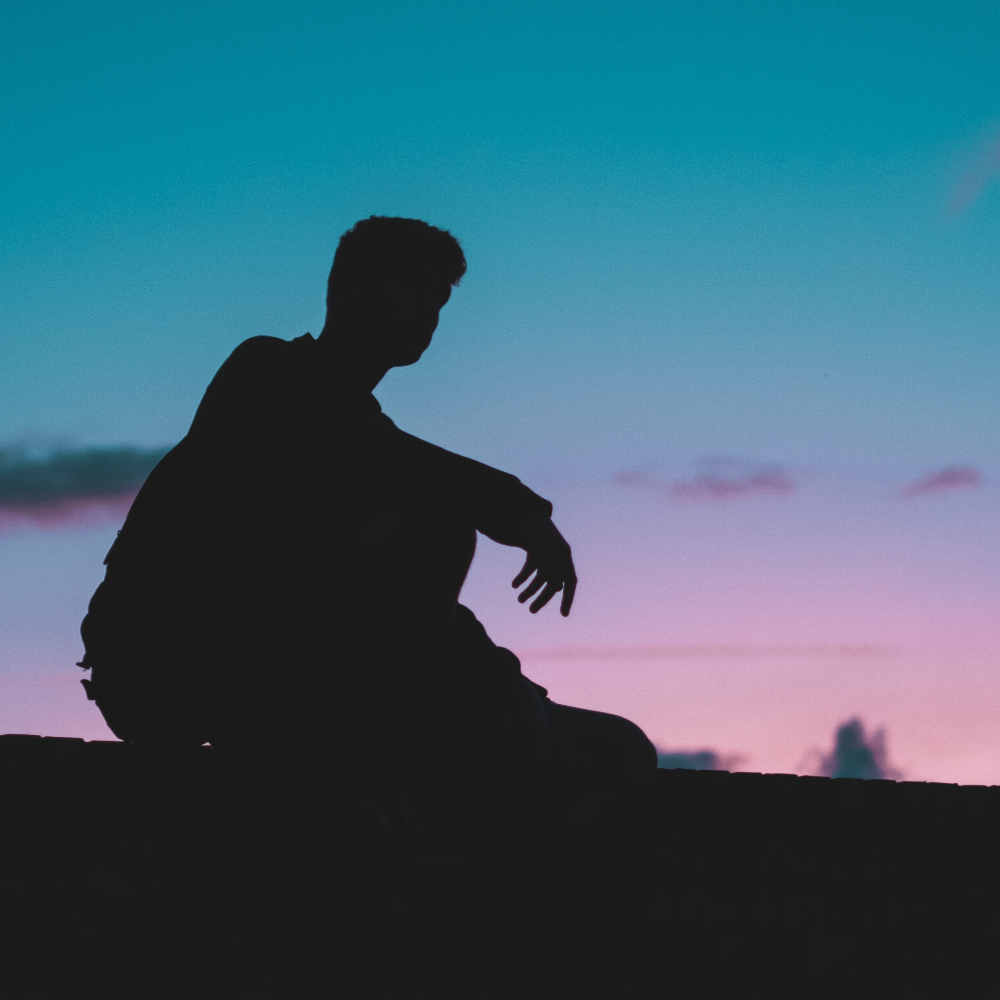
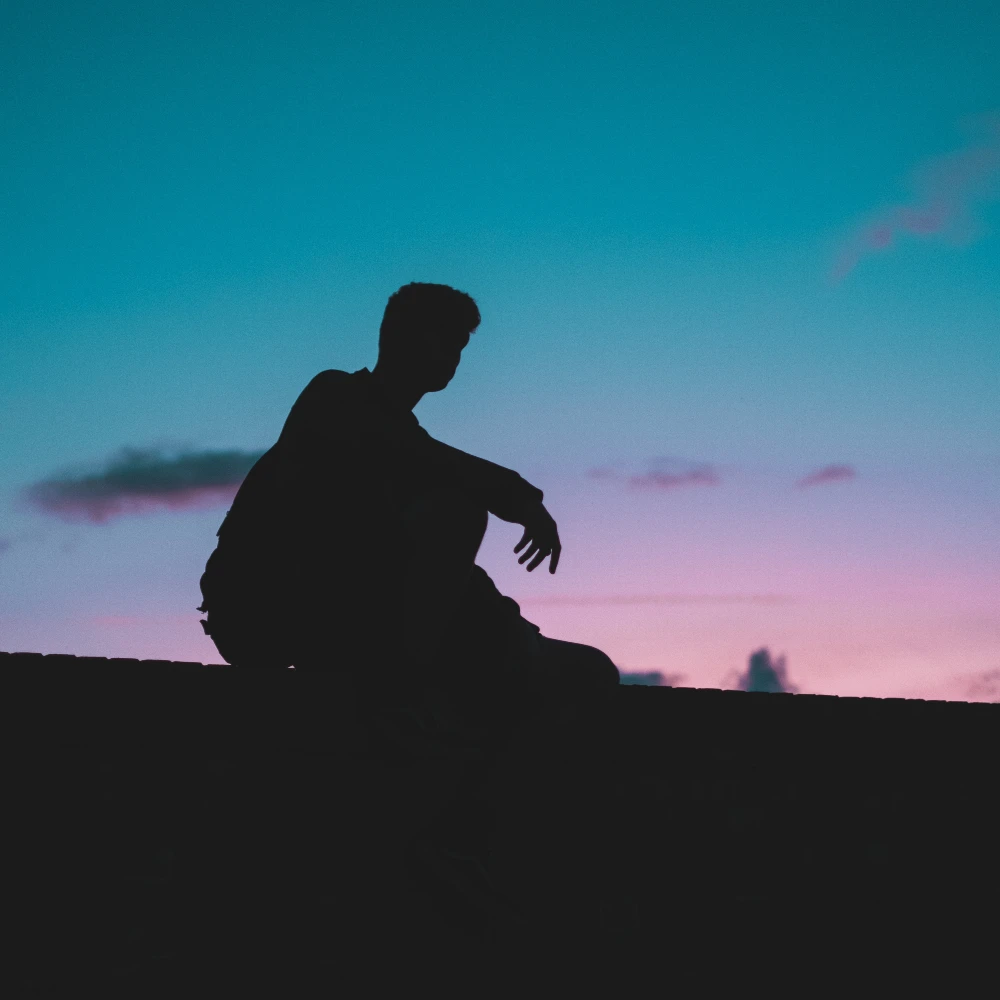
nov 15

diff --git a/resume.html b/resume.html
@@ -84,9 +84,9 @@
             </legend>
 
             <ul class="none xt">
-                <li class="accent emp xt">***** Studios&nbsp; • &nbsp;Atlanta, GA&nbsp; • &nbsp;May 2013 — Dec 2018</li>
-                <li class="accent emp under xt">Founder of independent music studio with a strong online presence,
-                    focusing on freelance audio production and engineering.</li>
+                <li class="accent xt">***** Studios&nbsp; • &nbsp;Atlanta, GA&nbsp; • &nbsp;May 2013 - Dec 2018</li>
+                <li class="accent under xt">Founder of independent music studio with a strong online presence,
+                    specializing in freelance audio production and engineering.</li>
             </ul>
 
             <ul class="square xt">
@@ -102,9 +102,9 @@
             </ul><br>
 
             <ul class="none xt">
-                <li class="accent emp xt">Morgan Stanley Securities&nbsp; • &nbsp;Shanghai, China&nbsp; • &nbsp;May —
-                    Jul 2013</li>
-                <li class="accent emp under xt">Data analyst at an international securities joint venture.</li>
+                <li class="accent xt">Morgan Stanley Securities&nbsp; • &nbsp;Shanghai, China&nbsp; • &nbsp;May - Jul
+                    2013</li>
+                <li class="accent under xt">Data analyst at an international securities joint venture.</li>
             </ul>
 
             <ul class="square xt">
@@ -123,8 +123,8 @@
             </legend>
 
             <ul class="none xt">
-                <li class="accent emp xt">Georgia Institute of Technology&nbsp; • &nbsp;Atlanta, GA&nbsp; • &nbsp;Aug
-                    2011 — May 2015</li>
+                <li class="accent xt">Georgia Institute of Technology&nbsp; • &nbsp;Atlanta, GA&nbsp; • &nbsp;Aug 2011 -
+                    May 2015</li>
             </ul>
 
             <ul class="square xt">
@@ -134,8 +134,8 @@
             </ul><br>
 
             <ul class="none xt">
-                <li class="accent emp xt">Shanghai High School International Division&nbsp; • &nbsp;Shanghai,
-                    China&nbsp; • &nbsp;Sep 2005 — Jun 2011</li>
+                <li class="accent xt">Shanghai High School International Division&nbsp; • &nbsp;Shanghai, China&nbsp; •
+                    &nbsp;Sep 2005 - Jun 2011</li>
             </ul>
 
             <ul class="square xt">

diff --git a/scripts.js b/scripts.js
@@ -1,10 +1,10 @@
 function themeLoad() {
 
-    if (sessionStorage.getItem('Theme') == 0) {
-        themeLight()
-    }
-    else if (sessionStorage.getItem('Theme') == 1) {
+    if (sessionStorage.getItem('Theme') === 1) {
         themeDark()
+    }
+    else {
+        themeLight()
     }
 
 }
@@ -34,6 +34,16 @@ function themeLight() {
     for (let i = 0; i < ele.length; i++) {
         ele[i].style.color = '#464BB4'
     }
+
+    try {
+        document.getElementById('removeImage').src = 'assets/index-padlock-locked-black.webp'
+    }
+    catch { }
+
+    try {
+        document.getElementById('switchImage').src = 'assets/index-padlock-unlocked-black.webp'
+    }
+    catch { }
 
     try {
         document.querySelector('iframe').style.borderColor = 'steelblue'
@@ -71,6 +81,16 @@ function themeDark() {
     }
 
     try {
+        document.getElementById('removeImage').src = 'assets/index-padlock-locked-white.webp'
+    }
+    catch { }
+
+    try {
+        document.getElementById('switchImage').src = 'assets/index-padlock-unlocked-white.webp'
+    }
+    catch { }
+
+    try {
         document.querySelector('iframe').style.borderColor = 'slateblue'
     }
     catch { }
@@ -89,9 +109,11 @@ function drop() {
     p.textContent = 'Loading...'
     document.getElementById('addText').appendChild(p)
 
-    img = new Image(512, 512)
+    img = new Image(500, 500)
+    img.id = 'switchImage'
     img.classList.add('xt')
-    img.src = 'assets/index-padlock-unlocked.png'
+    img.src = 'assets/index-padlock-unlocked-black.webp'
+    img.alt = 'Black padlock unlocked'
     document.getElementById('addImage').appendChild(img)
 
     themeLoad()

diff --git a/about.html b/about.html
@@ -65,7 +65,7 @@
     <main id="about" class="xt">
 
         <div class="xt">
-            <img class="xt" src="assets/about-music.webp" alt="Silhouette of Tony Osborn" width="1000" height="1000">
+            <img class="xt" src="assets/about-music.webp" alt="Silhouette at dawn" width="1000" height="1000">
         </div>
 
         <p class="xt">
@@ -78,7 +78,7 @@
         </p>
 
         <div class="xt">
-            <img class="xt" src="assets/about-coding.webp" alt="" width="1000" height="1000">
+            <img class="xt" src="assets/about-coding.webp" alt="Silhouette at sunset" width="1000" height="1000">
         </div>
 
         <p class="xt">
@@ -92,7 +92,7 @@
         </p>
 
         <div class="xt">
-            <img class="xt" src="assets/about-hobbies.webp" alt="" width="1000" height="1000">
+            <img class="xt" src="assets/about-hobbies.webp" alt="Silhouette at dusk" width="1000" height="1000">
         </div>
 
         <p class="xt">

diff --git a/style.css b/style.css
@@ -5,7 +5,7 @@
     --color-main: white;
     --color-main-dark: #222;
     --color-secondary: steelblue;
-    --color-secondary-comp: #464BB4;
+    --color-secondary-comp: #06070e;
     --color-secondary-dark: slateblue;
     --color-secondary-dark-comp: #5A84CD;
     --color-sides: gainsboro;
@@ -59,6 +59,7 @@ form {
 
 body {
     background-color: var(--color-sides);
+    min-height: 100vh;
 }
 
 fieldset {
@@ -87,7 +88,7 @@ hr {
 }
 
 iframe {
-    border: 3px solid var(--color-border);
+    border: 3px solid var(--color-secondary);
     border-radius: 3px;
     margin: auto;
 }
@@ -212,7 +213,8 @@ main#resume>* {
     width: 80%;
 }
 
-main#resume li.emp {
+main#resume li.accent {
+    color: var(--color-secondary-comp);
     font-style: italic;
     font-weight: bold;
 }

diff --git a/index.html b/index.html
@@ -65,8 +65,8 @@
     <main id="index" class="xt">
 
         <div id="addText" class="xt">
-            <img id="removeImage" class="xt" src="assets/index-padlock-locked.png" alt="Black padlock unlocked"
-                draggable="true" width="512" height="512">
+            <img id="removeImage" class="xt" src="assets/index-padlock-locked-black.webp" alt="Black padlock locked"
+                draggable="true" width="500" height="500">
         </div>
 
         <div id="addImage" class="xt" ondrop="drop()" ondragover="allowDrop(event)">

diff --git a/README.md b/README.md
@@ -17,9 +17,10 @@
     - About page: Extended about page with *coding* and *hobbies* sections.
     - Resume page: Reimagined formatting using fieldsets and complementary colors. Fixed various texts and spacings.
 
-# TO-DO
+- 11/15/22 - Minor improvements, primarily relating to images.
+    - Added internal whitespace for png link images.
+    - Implemented padlock image alternatives with JS to bring continuity to landing page animation.
+    - Downloaded additional image assets for the about page.
+    - Filled in extra bottom white space on larger screens using `minheight: 100vh` CSS.
 
-- Downloaded additional image assets for the about page.
-- Acquired padlock image alternatives to add continuity to landing page animation.
-- Stripped png images of internal whitespace.
-- Positioned footer at bottom of viewport to fill in white space for larger screens.
+# TO-DO
